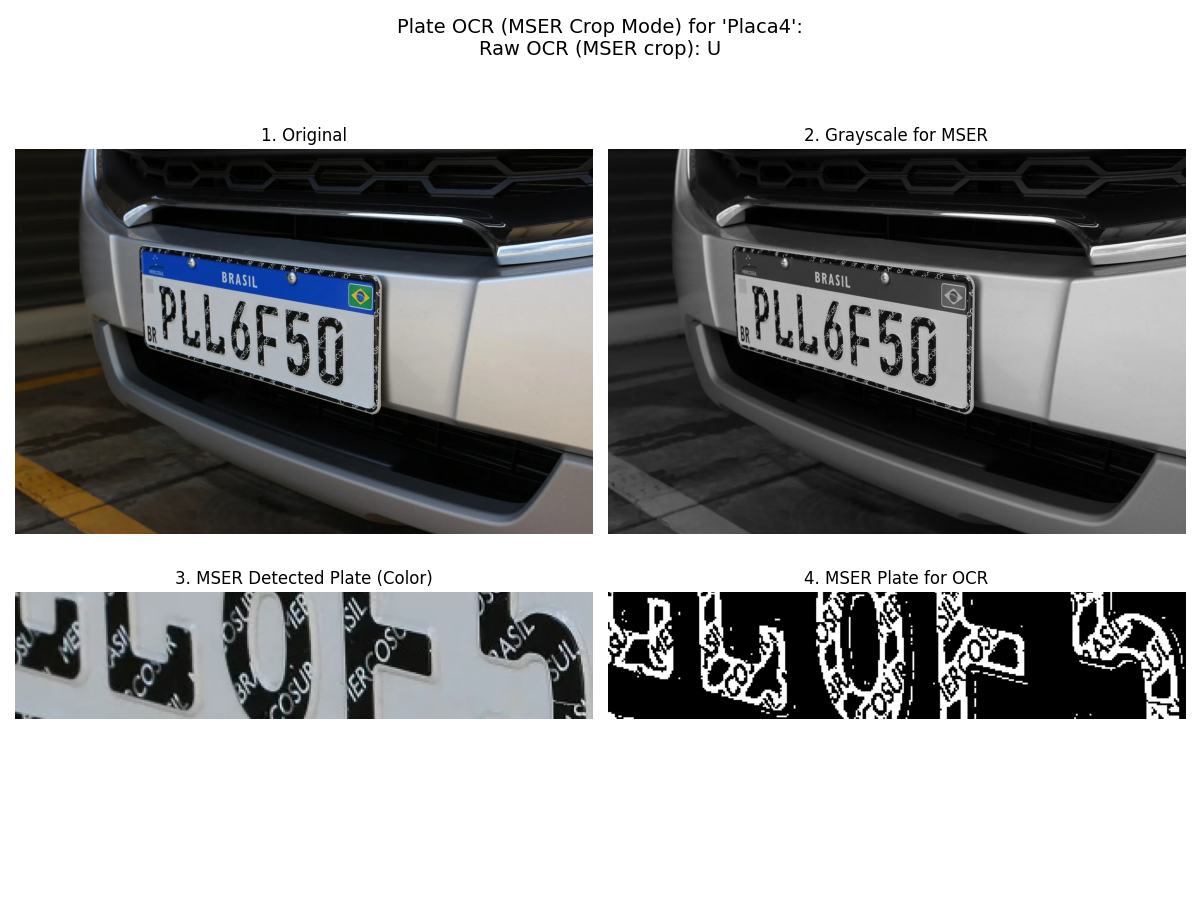
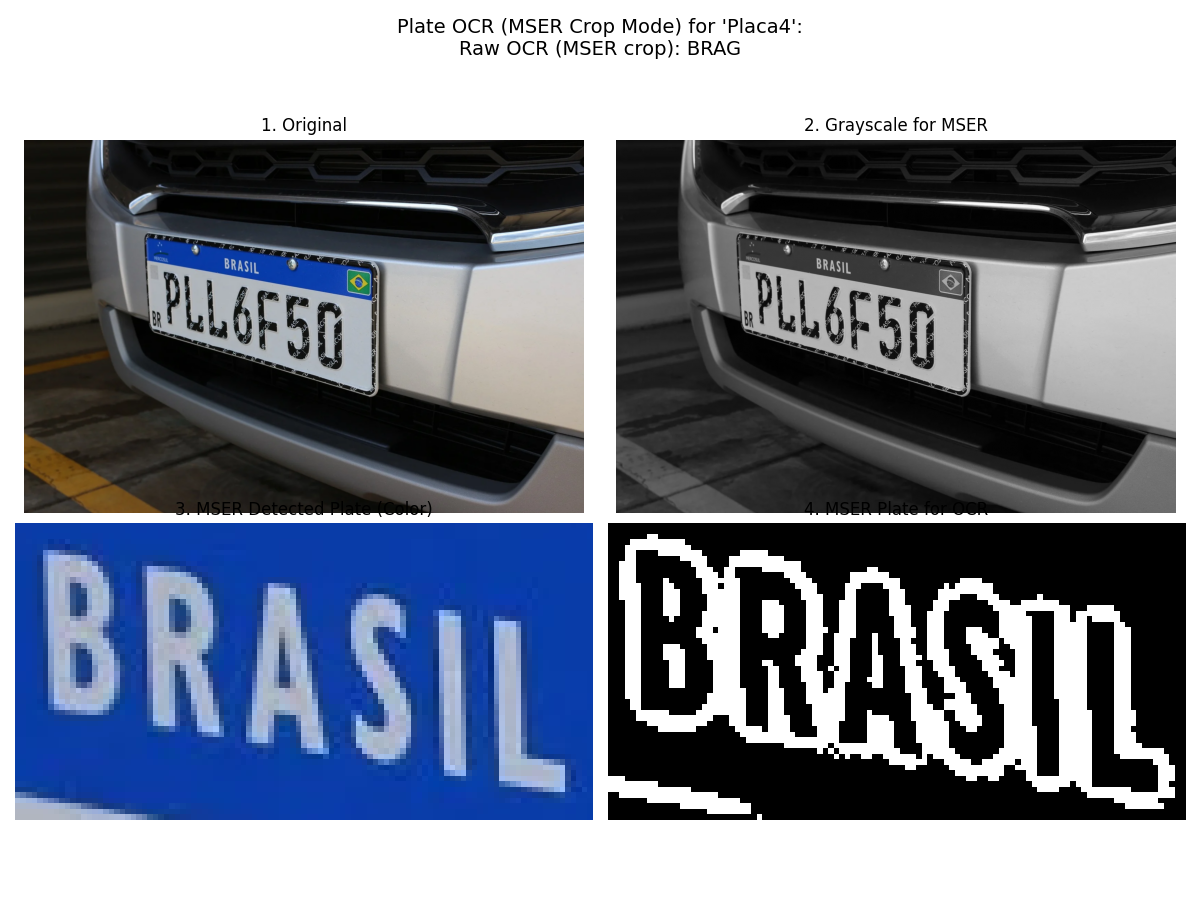
tunes to with the first umage working

diff --git a/main.py b/main.py
@@ -146,35 +146,50 @@ def group_char_candidates(char_candidates, max_dy_ratio=0.3, max_dh_ratio=0.3, m
 
 def encontrar_placas_via_mser(imagem_original_color, imagem_cinza):
     # --- MSER Parameters (Tunable) ---
-    mser = cv2.MSER_create()  # Create the MSER object
-    
-    # Set parameters using setter methods
-    mser.setDelta(5)                # Default 5. Controls sensitivity.
-    mser.setMinArea(100)            # Min area of a character candidate. (e.g., 0.0001 * img_area up to 0.01 * img_area)
-    mser.setMaxArea(2000)           # Max area of a character candidate. (e.g., 0.05 * img_area)
-    mser.setMaxVariation(0.3)       # Default 0.25. Stability threshold.
-    mser.setMinDiversity(0.1)       # Default 0.2. Filters similar regions.
-    # mser.setPass2Only(False)      # Default is True, which runs a more refined version. False might be faster but less accurate.
+        # --- MSER Parameters (Tunable) ---
+    mser = cv2.MSER_create()
+    mser.setDelta(5)
+    mser.setMinArea(80)      # Slightly increased based on observation (chars are not extremely tiny)
+    mser.setMaxArea(1000)    # Reduced significantly to focus on char-sized regions
+    mser.setMaxVariation(0.25)# Default, can try reducing if too many unstable regions
+    mser.setMinDiversity(0.2) # Default, can try increasing if too many similar regions
     # --- End MSER Parameters ---
     
     regions, bboxes = mser.detectRegions(imagem_cinza)
+    temp_img_mser_bboxes = imagem_original_color.copy()
+    if bboxes is not None:
+        for (x_b, y_b, w_b, h_b) in bboxes:
+            cv2.rectangle(temp_img_mser_bboxes, (x_b, y_b), (x_b + w_b, y_b + h_b), (0, 0, 255), 1)
+    plt.figure(figsize=(10,7))
+    plt.title("All Raw MSER Bounding Boxes")
+    plt.imshow(cv2.cvtColor(temp_img_mser_bboxes, cv2.COLOR_BGR2RGB))
+    plt.show()
     if bboxes is None or len(bboxes) == 0:
         print("MSER found no regions or bboxes.")
         return []
 
     # --- Character Filtering Parameters (Tunable) ---
+    # img_h, img_w = imagem_cinza.shape[:2]
+    # min_char_h_abs = int(img_h * 0.02) if img_h * 0.02 > 10 else 10 # e.g. 2% of image height, min 10px
+    # max_char_h_abs = int(img_h * 0.15) if img_h * 0.15 < 100 else 100 # e.g. 15% of image height, max 100px
+    # min_aspect_char, max_aspect_char = 0.1, 1.2 
     img_h, img_w = imagem_cinza.shape[:2]
-    min_char_h_abs = int(img_h * 0.02) if img_h * 0.02 > 10 else 10 # e.g. 2% of image height, min 10px
-    max_char_h_abs = int(img_h * 0.15) if img_h * 0.15 < 100 else 100 # e.g. 15% of image height, max 100px
-    min_aspect_char, max_aspect_char = 0.1, 1.2 
+    # For Placa1.jpg (approx dimensions: image 866h x 1200w, plate char height ~30px)
+    min_char_h_abs = 20 # Based on visual inspection of plate characters in Placa1
+    max_char_h_abs = 50 # Based on visual inspection
+    min_aspect_char, max_aspect_char = 0.15, 1.0 # Stricter max aspect ratio
     # --- End Character Filtering Parameters ---
     
     char_candidates = filter_char_candidates(bboxes, min_char_h_abs, max_char_h_abs, min_aspect_char, max_aspect_char)
     if not char_candidates: print("No character candidates after MSER filtering."); return []
 
     # --- Grouping Parameters (Tunable) ---
-    max_dy_ratio_grp = 0.4; max_dh_ratio_grp = 0.4; max_spacing_ratio_grp = 1.8 
-    min_chars_plate, max_chars_plate = 5, 8
+    # max_dy_ratio_grp = 0.4; max_dh_ratio_grp = 0.4; max_spacing_ratio_grp = 1.8 
+    # min_chars_plate, max_chars_plate = 5, 8
+    max_dy_ratio_grp = 0.25      # Stricter vertical alignment
+    max_dh_ratio_grp = 0.25      # Stricter height similarity
+    max_spacing_ratio_grp = 0.8 # Significantly reduced horizontal spacing tolerance
+    min_chars_plate, max_chars_plate = 6, 8 # Plates usually have 7, allow some flexibility
     # --- End Grouping Parameters ---
 
     plate_groups = group_char_candidates(char_candidates, max_dy_ratio_grp, max_dh_ratio_grp, 
